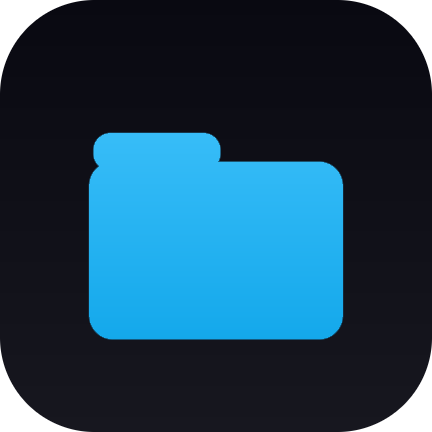
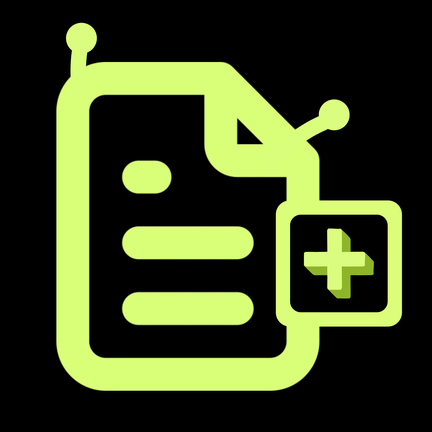
Rename app to Papra and enable hosted iOS builds
Update native and web branding, document development workflows, and add a GitHub Actions macOS simulator build so iOS artifacts can be produced without a local Mac.

diff --git a/src/pages/ConnectPage.vue b/src/pages/ConnectPage.vue
@@ -4,6 +4,7 @@ import { useRouter } from 'vue-router'
 import { useToast } from '@nuxt/ui/runtime/composables/useToast.js'
 import { useConnectionStore } from '@/stores/app'
 import { useAppStore } from '@/stores/theme'
+import papraLogo from '@/assets/papra-logo.png'
 
 const router = useRouter()
 const toast = useToast()
@@ -101,13 +102,13 @@ async function connect() {
     <div class="mx-auto flex w-full max-w-md flex-1 flex-col px-6">
       <!-- Brand -->
       <div class="mt-16 flex flex-col items-center text-center">
-        <div
-          class="flex size-16 items-center justify-center rounded-2xl bg-[var(--primary-scale)] ring-1 ring-[var(--primary)]/30"
-        >
-          <UIcon name="i-lucide-folder-open" class="size-8 text-[var(--primary)]" />
-        </div>
+        <img
+          :src="papraLogo"
+          alt="Papra"
+          class="size-16 rounded-2xl object-cover shadow-sm ring-1 ring-black/10"
+        />
         <h1 class="mt-5 text-3xl font-semibold tracking-tight text-[var(--foreground)]">
-          Neelas Scanner
+          Papra
         </h1>
         <p class="mt-2 max-w-xs text-sm leading-relaxed text-[var(--muted-foreground)]">
           Connect to your self-hosted document vault. Everything stays on your server.

diff --git a/src/pages/SettingsPage.vue b/src/pages/SettingsPage.vue
@@ -302,7 +302,7 @@ async function confirmDisconnect() {
           <button class="flex w-full items-center justify-between p-4 active:bg-[var(--muted)]" @click="aboutOpen = true">
             <span class="flex items-center gap-3 text-sm text-[var(--foreground)]">
               <UIcon name="i-lucide-info" class="size-4 text-[var(--muted-foreground)]" />
-              About Neelas Scanner
+              About Papra
             </span>
             <UIcon name="i-lucide-chevron-right" class="size-4 text-[var(--muted-foreground)]" />
           </button>
@@ -322,7 +322,7 @@ async function confirmDisconnect() {
     </main>
 
     <!-- About modal -->
-    <UModal v-model:open="aboutOpen" title="Neelas Scanner">
+    <UModal v-model:open="aboutOpen" title="Papra">
       <template #body>
         <div class="space-y-3 text-sm text-[var(--muted-foreground)]">
           <p>

diff --git a/src/utils/scan.ts b/src/utils/scan.ts
@@ -445,8 +445,8 @@ const A4 = { width: 595.28, height: 841.89 }
 export async function buildScanPdf(canvases: HTMLCanvasElement[]): Promise<Uint8Array> {
   const { PDFDocument } = await import('pdf-lib')
   const pdf = await PDFDocument.create()
-  pdf.setProducer('Neelas Scanner')
-  pdf.setCreator('Neelas Scanner')
+  pdf.setProducer('Papra')
+  pdf.setCreator('Papra')
 
   const margin = 12
 

diff --git a/index.html b/index.html
@@ -11,7 +11,7 @@
     <script>
       window.__CapacitorHttpEnabled__ = true;
     </script>
-    <title>Neelas Scanner</title>
+    <title>Papra</title>
   </head>
   <body>
     <div id="app" class="isolate"></div>

diff --git a/README.md b/README.md
@@ -1,0 +1,136 @@
+# Papra Mobile
+
+Papra Mobile is a cross-platform client for [Papra](https://github.com/papra-hq/papra), a self-hosted document management server. It provides a focused mobile workflow for connecting to a Papra server, browsing documents, scanning pages, uploading files, searching, tagging, and managing the trash.
+
+The application is built with Vue 3 and Capacitor, so the same frontend runs in the browser, Android, and iOS.
+
+## Features
+
+- Email/password and API-key authentication
+- Optional Cloudflare Access service-token support
+- Document browsing, search, tags, and trash management
+- Camera-based document scanning with crop, rotate, and image enhancement tools
+- File upload and PDF generation
+- Light and dark themes
+- Native Android and iOS projects
+
+## Requirements
+
+- Node.js 22 or newer
+- npm
+- A running Papra server for end-to-end use
+- Android Studio and an Android SDK for Android builds
+- macOS with Xcode and CocoaPods for local iOS builds
+
+The web application can be developed on Windows, macOS, or Linux. Xcode cannot run on Windows or Linux; use the included GitHub Actions workflow for a hosted macOS simulator build when a Mac is not available.
+
+## Getting started
+
+Install dependencies and start the Vite development server:
+
+```bash
+npm install
+npm run dev
+```
+
+Open the local URL shown by Vite, usually `http://localhost:5173`.
+
+The app does not include a Papra backend. On first launch, enter the address of your own Papra server and authenticate with either your account or an API key.
+
+## Production web build
+
+```bash
+npm run build
+npm run preview
+```
+
+The production files are written to `dist/`.
+
+## Android
+
+Open the Android project in Android Studio:
+
+```bash
+npm run cap:android
+```
+
+Build a debug APK from the command line:
+
+```bash
+npm run android:build
+```
+
+Build the release variant:
+
+```bash
+npm run android:release
+```
+
+Release builds still need the appropriate Android signing configuration before distribution.
+
+## iOS
+
+Local iOS development requires macOS, Xcode, and CocoaPods:
+
+```bash
+npm run cap:ios
+```
+
+This opens the generated Xcode workspace at `ios/App/App.xcworkspace`. The project uses an iOS 14 deployment target.
+
+The local simulator build command is:
+
+```bash
+npm run ios:build
+```
+
+A device or TestFlight build requires an Apple Developer account, signing certificates, and provisioning profiles configured in Xcode.
+
+### Building iOS without a Mac
+
+`.github/workflows/ios-build.yml` runs an unsigned iOS Simulator build on a hosted macOS runner. After pushing the repository to GitHub:
+
+1. Open the repository's **Actions** tab.
+2. Select **iOS build**.
+3. Choose **Run workflow**.
+4. Download the `papra-ios-simulator` artifact when the job completes.
+
+This workflow produces a simulator `.app`. It does not produce a signed device or TestFlight `.ipa`; those require Apple signing credentials.
+
+## Project structure
+
+```text
+src/                 Vue application source
+src/pages/           Route-level screens
+src/components/      Shared UI components
+src/stores/          Pinia state stores
+src/api/             Papra API client
+src/utils/           PDF, scan, and formatting utilities
+android/             Capacitor Android project
+ios/                 Capacitor iOS project
+resources/            App icon source and generated assets
+.github/workflows/   CI workflows
+```
+
+## Useful commands
+
+| Command | Purpose |
+| --- | --- |
+| `npm run dev` | Start the Vite development server |
+| `npm run build` | Create a production web build |
+| `npm run cap:sync` | Build and sync all Capacitor platforms |
+| `npm run cap:android` | Sync and open Android Studio |
+| `npm run cap:ios` | Sync and open Xcode |
+| `npm run android:build` | Build an Android debug APK |
+| `npm run android:release` | Build an Android release APK |
+| `npm run ios:build` | Build an iOS Simulator app on macOS |
+
+## Configuration
+
+The native application identifier is `app.papra.mobile`. Capacitor configuration lives in `capacitor.config.json`; platform-specific settings are maintained in `android/` and `ios/`.
+
+The app communicates with the Papra server entered by the user. Credentials are stored locally through Capacitor Preferences and are never sent anywhere other than the configured server and its optional Cloudflare Access proxy.
+
+## License and attribution
+
+Papra Mobile is an independent client for Papra and is not affiliated with or endorsed by the Papra project unless explicitly stated by the maintainers. Refer to the upstream Papra project for server licensing and contribution information.
